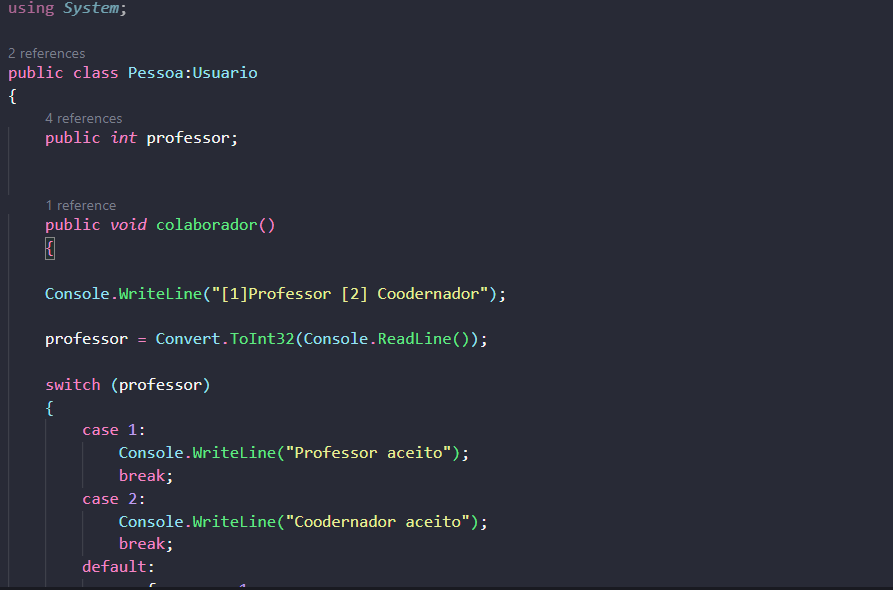
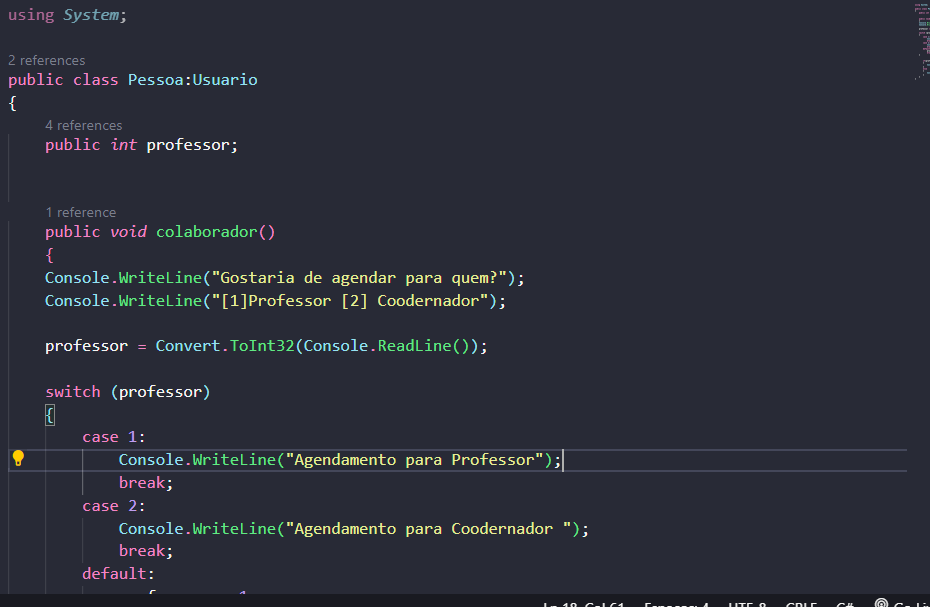
Trabalho finalizado

diff --git a/Agendamento.cs b/Agendamento.cs
@@ -3,17 +3,17 @@ using System.Collections.Generic;
 
 public class Agendamento
 {
-    public int escolha;
-     Dictionary<DateTime, string> agenda = new Dictionary<DateTime, string>();
+    public string? sair;
+     Dictionary<DateTime, string?> agenda = new Dictionary<DateTime, string?>();
 
     public void dataAgenda()
     {
        while (true)
             {
             Console.WriteLine("Digite a data (dd/mm/aaaa) ou digite 'sair' para encerrar:");
-            string? sair = Console.ReadLine();
+            sair = Console.ReadLine();
 
-            if (sair.ToLower() == "sair")
+            if (sair == "sair")
                 break;
 
             if (DateTime.TryParse(sair, out DateTime data))
@@ -38,7 +38,7 @@ public class Agendamento
 
         Console.WriteLine("\nAgenda:");
 
-        foreach (KeyValuePair<DateTime, string> item in agenda)
+        foreach (KeyValuePair<DateTime, string?> item in agenda)
         {
             Console.WriteLine("{0}: {1}", item.Key.ToShortDateString(), item.Value);
         }

diff --git a/Pessoa.cs b/Pessoa.cs
@@ -7,7 +7,7 @@ public class Pessoa:Usuario
 
     public void colaborador()
     {   
-    
+    Console.WriteLine("Gostaria de agendar para quem?");
     Console.WriteLine("[1]Professor [2] Coodernador");
     
     professor = Convert.ToInt32(Console.ReadLine());
@@ -15,10 +15,10 @@ public class Pessoa:Usuario
     switch (professor)
     {
         case 1:
-            Console.WriteLine("Professor aceito");
+            Console.WriteLine("Agendamento para Professor");
             break;
         case 2:
-            Console.WriteLine("Coodernador aceito");
+            Console.WriteLine("Agendamento para Coodernador ");
             break;
         default:
             professor = -1;
